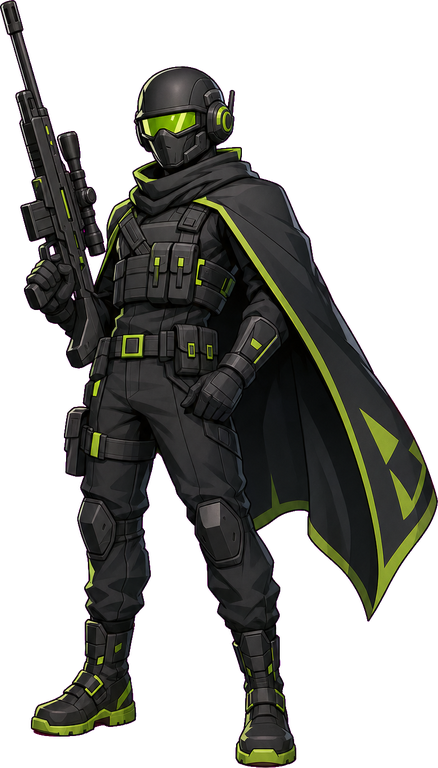
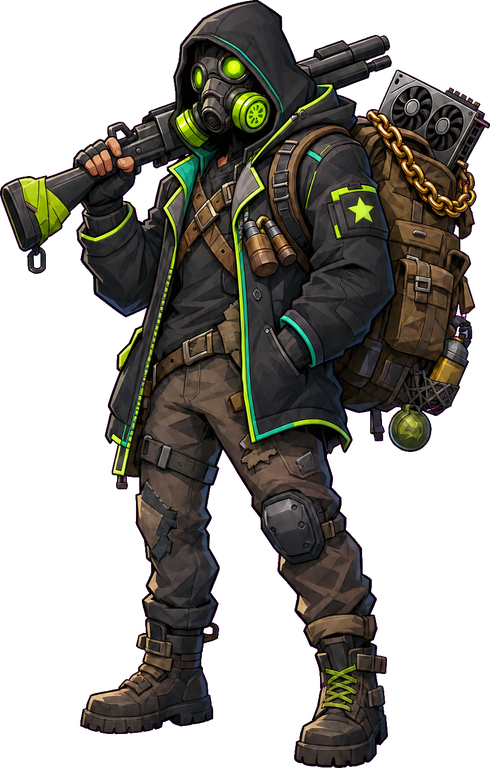
Use the gas-masked scavenger everywhere: the landing page shows him, and the Alpha Veteran skin becomes his black edition with lime and mint trim instead of the separate visored mercenary.

diff --git a/apps/web/src/app/page.tsx b/apps/web/src/app/page.tsx
@@ -379,7 +379,7 @@ function PassSection() {
       <div className="mx-auto grid max-w-6xl grid-cols-1 items-center gap-12 lg:grid-cols-[1fr_1.1fr]">
         <div className="flex flex-col items-center lg:items-start">
           {/* eslint-disable-next-line @next/next/no-img-element -- static lobby art */}
-          <img src="/lobby/hero_alpha.png" alt="The Alpha Veteran skin" className="h-72 w-auto drop-shadow-[0_12px_0_rgba(0,0,0,0.4)] md:h-96" />
+          <img src="/lobby/hero_0.png" alt="A SPOILS raider" className="h-72 w-auto drop-shadow-[0_12px_0_rgba(0,0,0,0.4)] md:h-96" />
         </div>
         <div>
           <span className="inline-block rounded-full border-[3px] border-black bg-amber-300 px-3 py-1 text-sm font-bold tracking-wide text-black">
